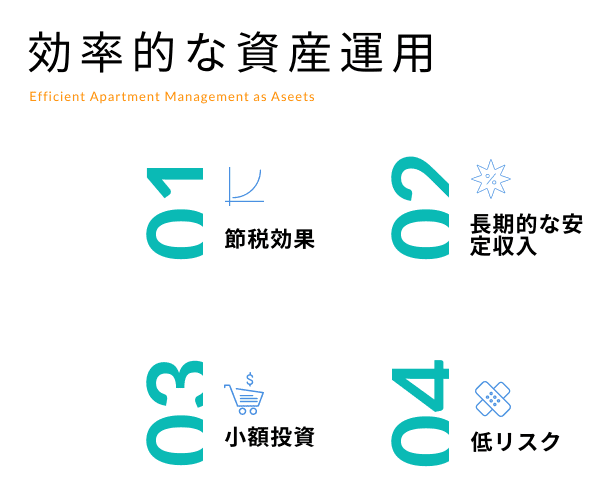
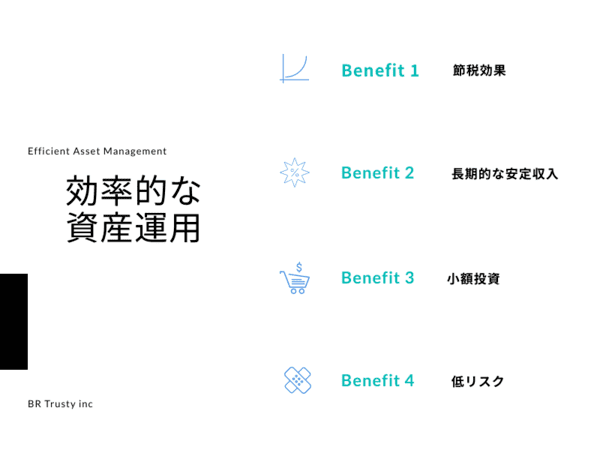
imagechangev4

diff --git a/portfolio.html b/portfolio.html
@@ -121,13 +121,12 @@
                                 <h4 class="title020">マンション経営とは</h4>
                              
                             </div>
-                            <p>日本は財政再建に向けた大増税時代を迎えようとしています。増税に加えて、公的年金である保険料が2017年まで毎年引き上げられる現状、現在の暮らし・将来の老後への不安が増え続ける一方です。
-
-                                そこで将来に備え、様々な投資をすることで自分の生活と資産を守ることが大切になってきました。中でも、安定したマンション経営は節税対策や老後の生活資金の確保などさまざまなメリットがあり、近年注目を集めています。
-                                
-                                かつてマンション経営といえば、限られた資産家層のものと思われていましたが、近年、マンションを購入し、賃貸して得られる収入や節税効果など様々なメリットが投資対象として大きな魅力を持っていることが認識されてきました。預金・生命保険・その他の金融商品と比べても優るとも劣らないマンション経営は、サポートシステムも非常に優れておりリスクが低く安心できる投資商品の一つです。</p>
+                            <p>マンション経営とは、シンプルにいうと購入したマンションを他人に貸すことによって家賃収入を得ることをいいます。
+                                このような貸家業の仕組みは、江戸時代に多く存在した「長屋」を庶民に貸して家賃を得るところから始まっているといわれており、歴史も大変長いものとなります。
+                                昨今、金利低迷や将来の年金不安が叫ばれるなかで世の中には様々な投資商品が出てきています。いまは自分で自分の資産を守ることが大切になります。そのなかでも、マンション経営はメリットが多くあるため投資対象として注目を集めており、20代のサラリーマンや公務員といった方でも取り組むことのできる投資商品の一つです
+                                </p>
                                 <p class="title04">他の投資商品との違い</p>
-                            <p>マンション経営による資産運用は、一気に資産を作る方法ではなく、今からでも、小額資金からコツコツと、専門知識がなくても始めることができる、ローリスク&ロングリターンの投資商品です。そのため、サラリーマンや公務員投資家が多いことも特徴です。
+                            <p>マンション経営による資産運用は、一気に資産を作る方法ではなく、今からでも、小額資金からコツコツと、専門知識がなくても始めることができる、ローリスク&ロングリターンの投資商品です。
                                 マンション経営にくらべ、他の金融商品は、知識が必要で高いリスクが伴ったり、将来の経済政策に大きく左右される可能性があり、将来に渡っての資産形成が保証されているわけではありません。
                             </p>
                             <p class="title03"><span class="midashi">┃</span>不動産投資の目的</p>
@@ -176,12 +175,12 @@
                                     <td>株券<br>
                                     株券自体の利用価値はない</td>
                                     </tr>
-                                    <tr>
+                                    <!-- <tr>
                                     <th class="backg">担保価値</th>
                                     <td>価格の100%以上もあり</td>
                                     <td>90%程度</td>
                                     <td>時価評価総額の50%程度</td>
-                                    </tr>
+                                    </tr> -->
                                     <tr>
                                     <th class="backg">ローンの利用</th>
                                     <td>可能</td>
@@ -282,13 +281,7 @@
                                 
                                 <p class="title03"><span class="midashi">┃</span>メリット5. インフレ対策</p>
                                 <p>
-                                    グラフは1000万円の預金がインフレーション(以下、インフレ)によってどのように目減りしていくかを示したものです。
-
-                                    ここでいう「目減り」とは、インフレによって物価が上昇することによって、1000万円の実質的な価値が下がることです。最近起きたインフレといえば消費税増税です。消費税増税も実質的なインフレです。 5％→8％なら実質3％の物価上昇(インフレ)となります。
-
-                                    例えば、1％のインフレでも、10年後に1000万円の預金は905万と約1割も減少してしまいます。 これが2％のインフレになると30年後には1000万円の預金は552万と現在の約半分まで減少してしまうのです。
-
-                                    紙切れになってしまう資産ではなく、実物資産である不動産。物価に連動するのも不動産の大きな強みのひとつです。そして、不動産はインフレからオーナー様の大切な資産を守ります。 不動産投資がインフレからお金を目減りさせない守りの資産形成として注目されているのはこれらの理由からです。</p>
+                                    インフレとは物価が上昇することによって、お金の実質的な価値が下がることです。消費税増税も実質的なインフレです。 8％→10％なら実質2％の物価上昇(インフレ)となります。実物資産である不動産は物価に連動して価格が上昇するのでインフレ対策の強みのひとつです。そして、不動産はインフレからオーナー様の大切な資産を守ります。 不動産投資がインフレからお金を目減りさせない守りの資産形成として注目されているのはこれらの理由からです。</p>
                                 
                                 <p class="title03"><span class="midashi">┃</span>メリット6. 少額で取り組める終身年金</p>
                                 <p>
@@ -341,11 +334,9 @@
                             </div>
 
 
-                            <p class="title03"><span class="midashi">┃</span>リスク①「空室」のリスク</p>
-                            <p>入居者がいるかいないかというのは、マンション投資・マンション経営の一番大きなポイントです。BR
-                                TRUSTYが東京23区のワンルームマンションにこだわっている理由も、入居者の安定確保のためです。東京都の平均入居率は96.67％で全国1位で、需要と供給のバランスにおいても供給不足になる可能性が高いのです。さらに、弊社では、物件エリアを都心部中心の駅至近エリアに絞り込み、設備の非常に充実
-                                したマンションをご提供しておりますので、空室リスクを最低限にすることができると考えています。</p>
-                            <table class="table m-3">
+                            <p class="title03"><span class="midashi">┃</span>リスク①「空室」</p>
+                            <p>入居者がいるかいないかというのは、マンション投資・マンション経営の一番大きなポイントです。BR TRUSTYが東京23区のワンルームマンションにこだわっている理由も、入居者の安定確保のためです。東京都は学生が多いことや、単身高齢者の増加に伴いワンルームマンションの需要が高く、需要と供給のバランスにおいても供給不足になる可能性が高いのです。さらに、弊社では、物件エリアを都心部中心の駅至近エリアに絞り込み、設備の非常に充実 したマンションをご提供しておりますので、空室リスクを最低限にすることができると考えています。</p>
+                            <!-- <table class="table m-3">
                                 <tbody>
                                     <tr>
                                         <th width="25%" class="backg">地域</th>
@@ -369,30 +360,30 @@
 
                                 </tbody>
                             </table>
-                            <img class="img-fluid" src="img/port10.png">
+                            <img class="img-fluid" src="img/port10.png"> -->
 
 
-                            <p class="title03"><span class="midashi">┃</span>リスク②「老朽化と損壊」のリスク</p>
+                            <p class="title03"><span class="midashi">┃</span>リスク②「老朽化と損壊」</p>
                             <p>
-                                投資用マンションも当然、年数を経るに従い老朽化していきます。修繕や建替えに対する備えは、修繕積立金などで補っていきますが、それでも投資用マンションはその収益性の観点から、少しでも丈夫で長持ちするものである必要があります。つまり、基本構造のしっかりとした安心できるマンションを選ぶことがひとつのポイントです。
+                                投資用マンションも当然、年数を経るに従い老朽化していきます。修繕や建替えに対する備えは、修繕積立金などで補っていきます。BR TRUSTYでは、建物管理会社が健全な修繕計画・建物管理をしているかどうかをあらかじめ確認してから販売しております。</p>
 
-                                ご安心下さい。BR TRUSTYでは、外壁補修費・配管補修費・屋上の防水補修費については予定経費を月割りにして積立している長期修繕積立金にて補修しております。</p>
-
-                            <p class="title03"><span class="midashi">┃</span>リスク③「売却価格の低迷」のリスク</p>
+                            <p class="title03"><span class="midashi">┃</span>リスク③「売却価格の低迷」</p>
                             <p>
-                                マンション用地仕入れ価格におきましては、都内優良地は前年比2～3割アップも多くなりました。
-                                今後の不動産価格に対する見方はいろいろありますが、当然ですが下落するリスクも十分考えられます。ですから将来的に家賃の値下がりのしづらい物件を選ぶことが重要なポイントになってくるでしょう。
+                                マンション仕入れ価格におきましては、近年高くなってきております。 今後の不動産価格に対する見方はいろいろありますが、当然ですが下落するリスクも十分考えられます。ですから将来的に家賃の値下がりのしづらい物件を選ぶことが重要なポイントになってくるでしょう。
+                                目的は売却による利益より家賃収入。 不動産価格よりも家賃がポイントです。
+                                
 
                             </p>
-                            <p>目的は売却による利益より家賃収入。
-                                不動産価格よりも家賃がポイント。</p>
+                            
+                            
 
-                            <p class="title03"><span class="midashi">┃</span>リスク④「天災」のリスク</p>
+                            <p class="title03"><span class="midashi">┃</span>リスク④「天災」</p>
                             <p>阪神大震災以降、改めてマンションの強度に対しての意識も高まっています。平成12年には改正基準法・施行令が制定され、現在では従来の構造計算を更に充実させ限界耐力計算も導入し瑕疵担保責任も10年に延長された事で欠陥マンションも無くなったといえます。さらに、あらゆる可能性に備えて地震保険に入っておくこともよいでしょう。火災に関しては保険に加入していただく事でリスクを回避していただきます。なお、火災保険はオーナー様、賃借人共に加入が必須となっておりますのでご安心下さい。
                             </p>
 
-                            <p>火災保険への加入はオーナー様、賃借人共に必須
-                                地震保険は任意ですが加入することで更に安心</p>
+                            <p>火災保険への加入はオーナー様、賃借人共に必須であり、
+                                地震保険は任意ですが加入することで更に安心です。</p>
+                                
                         </div>
                     </div>
 
@@ -482,7 +473,7 @@
                                     <ul>
                                         <li>
                                             <dt><span class="midashi3">A.</span></dt>
-                                            <dd><span class="answer-title">手厚い地震保険のご用意があります。割引の適用もございます。</span></dd>
+                                            <dd><span class="answer-title">地震保険のご用意があります。</span></dd>
                                         </li>
                                         <li class="answer-text">
                                             <p>昭和56年6月1に導入された建築基準法により現在のマンションは地震に対して強くなっていますが、それでも地震に対してご不安な方には地震保険をご紹介しています。地震保険に加入することで地震に対する設備もできるうえ、「耐震等級割引」の適用もあるので地震保険料も割引されます。

diff --git a/css/style.css b/css/style.css
@@ -1166,7 +1166,7 @@ i:before {
 
 .best_3d_area .left_3d:before {
   content: "";
-  background: url(../img/top2.png) no-repeat scroll center center;
+  background: url(../img/top4.png) no-repeat scroll center center;
   background-size: cover;
   min-height: 100%;
   position: absolute;
